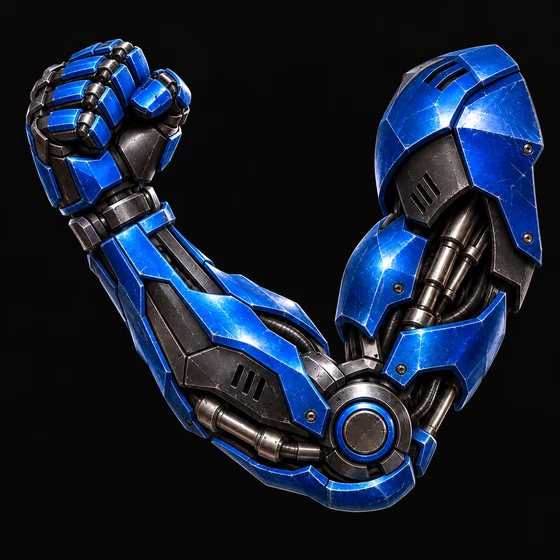
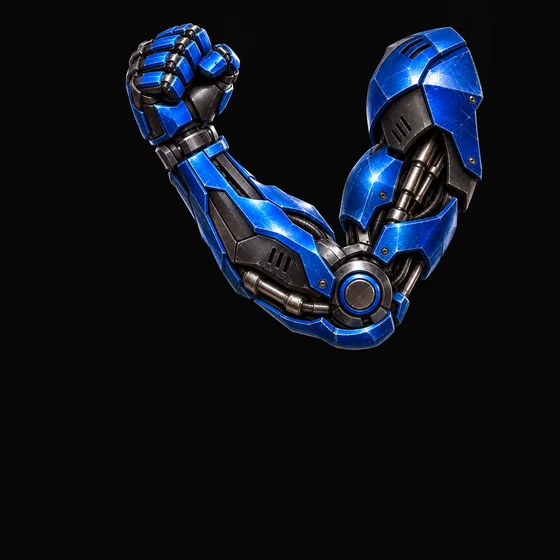
Kombat Penales: el brazo doblado alineado con el estirado en el piedra, papel o tijera
El brazo a 90 grados (posición 1) se achicó al tamaño del estirado y se acomodó con el
codo en el mismo lugar, así el antebrazo sube y baja desde el codo.

Claude-Session: https://claude.ai/code/session_01WPvz5SymPW7TaFDJyBHD52

diff --git a/src/styles/main.css b/src/styles/main.css
@@ -2262,7 +2262,7 @@ body:has(.land) .mobile-nav{display:none}
 .kp-rps-title{min-height:1.5em;text-align:center;font:900 clamp(1rem,2.4vw,1.5rem)/1.2 system-ui,sans-serif;color:#fde68a;text-shadow:0 2px 0 #000}
 .kp-rps-arms{display:grid;grid-template-columns:1fr 1fr;width:100%;overflow:hidden}
 .kp-rps-arms figure{margin:0;display:grid;justify-items:center;transition:opacity .3s}
-.kp-rps-arms img{width:118%;max-height:min(44vh,26rem);aspect-ratio:1;object-fit:contain;mix-blend-mode:lighten;animation:kp-arm .18s ease-out}
+.kp-rps-arms img{width:118%;max-height:min(44vh,26rem);aspect-ratio:1;object-fit:contain;mix-blend-mode:lighten}
 .kp-rps-arms figure:first-child img{margin-right:-18%;transform-origin:15% 50%}
 .kp-rps-arms figure:last-child img{margin-left:-18%;transform-origin:85% 50%}
 .kp-rps-arms figcaption{margin-top:-1.4rem;padding:.1rem .7rem;border-radius:999px;background:#000c;font:900 clamp(.8rem,1.6vw,1rem)/1.3 system-ui,sans-serif}
